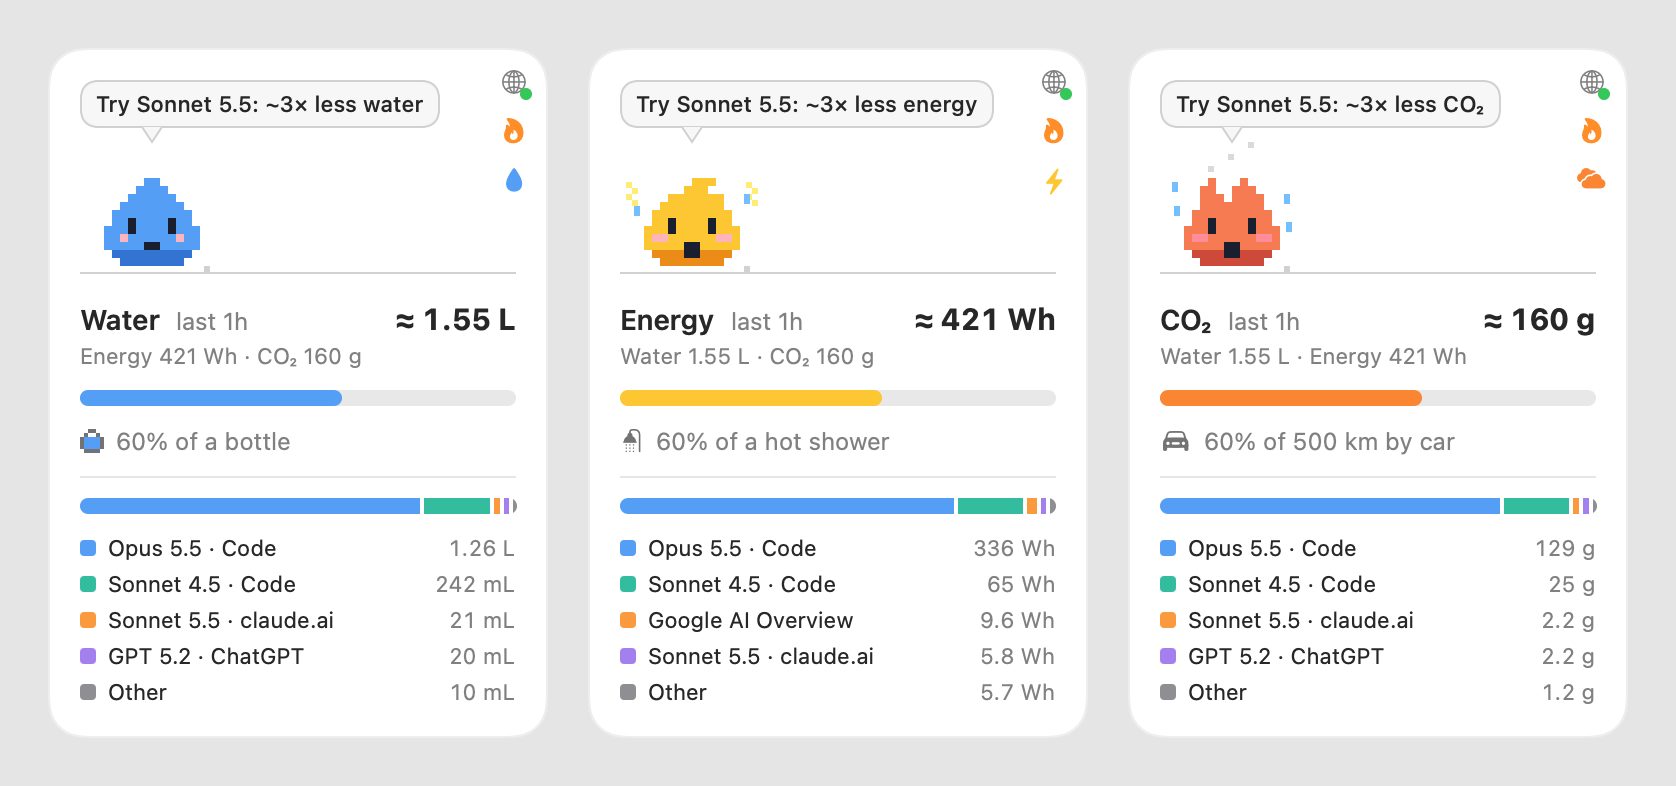
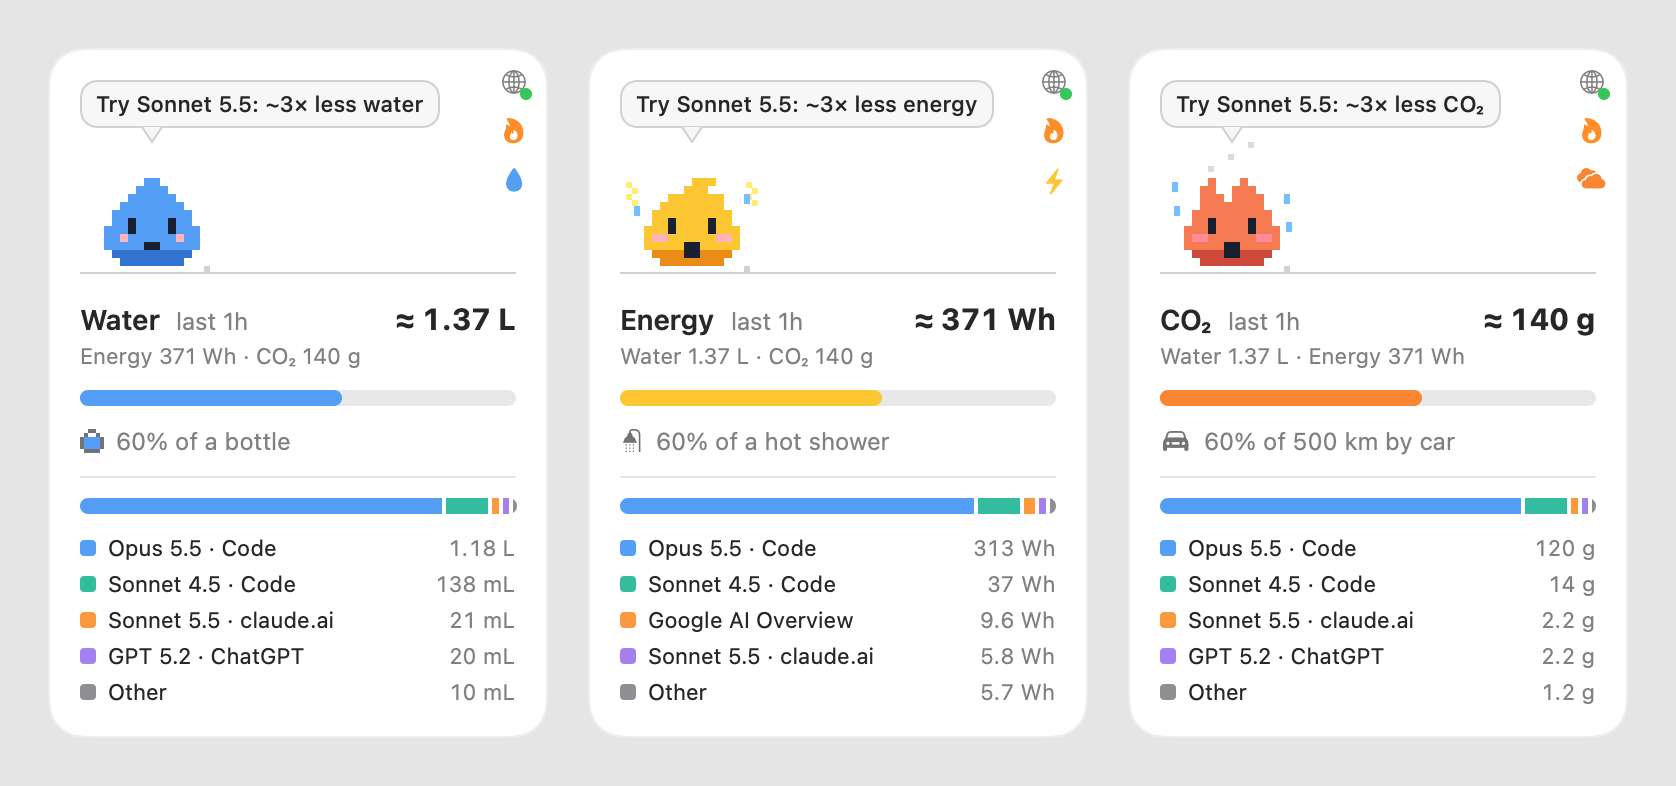
README: keep only the roast and minimal screenshots in "What you can do"
The browser setup and heat-ladder shots are gone (and no longer rendered
by --shots); the roast is shown at a smaller width.

diff --git a/Sources/main.swift b/Sources/main.swift
@@ -669,14 +669,10 @@ if let i = args.firstIndex(of: "--shots"), i + 1 < args.count {   // render the 
     }
     try? FileManager.default.createDirectory(at: dir, withIntermediateDirectories: true)
     shot("hero") { card(.water, 1); card(.energy, 3); card(.co2, 5) }
-    shot("heat") { ForEach(0..<6, id: \.self) { card(.water, $0, compact: true) } }
     shot("minimal", dark: true) { card(.water, 0, asleep: true, compact: true); card(.energy, 2, compact: true); card(.co2, 4, compact: true) }
     store.roasting = true
     shot("roast") { card(.water, 2) }
     store.roasting = false
-    store.showSetup = true
-    (store.browserOn, store.chromeConnected) = (false, false)   // show the two setup steps
-    shot("browser", dark: true) { card(.water, 0) }
     exit(0)
 }
 

diff --git a/README.md b/README.md
@@ -39,18 +39,13 @@ The dot turns green once the extension checks in. It then counts AI replies on c
 
 ## What you can do
 
-![Browser tracking setup on the card](docs/browser.png)
-
 - **Pick a metric.** The button under the 🔥 flame switches water → energy → CO₂, and so does *Track* in the menu. Tracky becomes a drop, a spark or a little fire; the other two metrics show under the total.
 - **Watch it heat up.** A bar fills toward the next everyday amount, such as a cup, a phone charge or 1 km by car. Each one you pass makes Tracky hotter, until it's red.
-
-  ![Tracky from cool to overheated](docs/heat.png)
-
 - **See where it comes from.** The legend splits the total by model and source, such as *Opus 5.5 · Code* or *GPT 5.2 · ChatGPT*, in at most five lines.
 - **Get tips** in a speech bubble, about what you used last: a lighter model, lower effort, or skipping Google's AI answers.
 - **🔥 Roast me.** Tracky gets angry and lists what the same amount could have been: espressos, phone charges, meters by car… Close it with ✕.
 
-  ![The roast](docs/roast.png)
+  <img src="docs/roast.png" alt="The roast" width="240">
 
 - **Go minimal.** Double-click the card for just Tracky, the total and the model that used the most.
 
@@ -107,7 +102,7 @@ Tracky stores only which model ran, when, and how many tokens it produced; never
 build/Tracky.app/Contents/MacOS/Tracky --selftest
 ```
 
-`--selftest` runs the checks (also run by `build.sh`), `--dump` prints what Tracky read in the last 24 hours, and `--shots docs` renders these screenshots.
+`--selftest` runs the checks (also run by `build.sh`), `--dump` prints what Tracky read in the last 24 hours, and `--shots docs` renders the README screenshots.
 
 ## Credits
 
